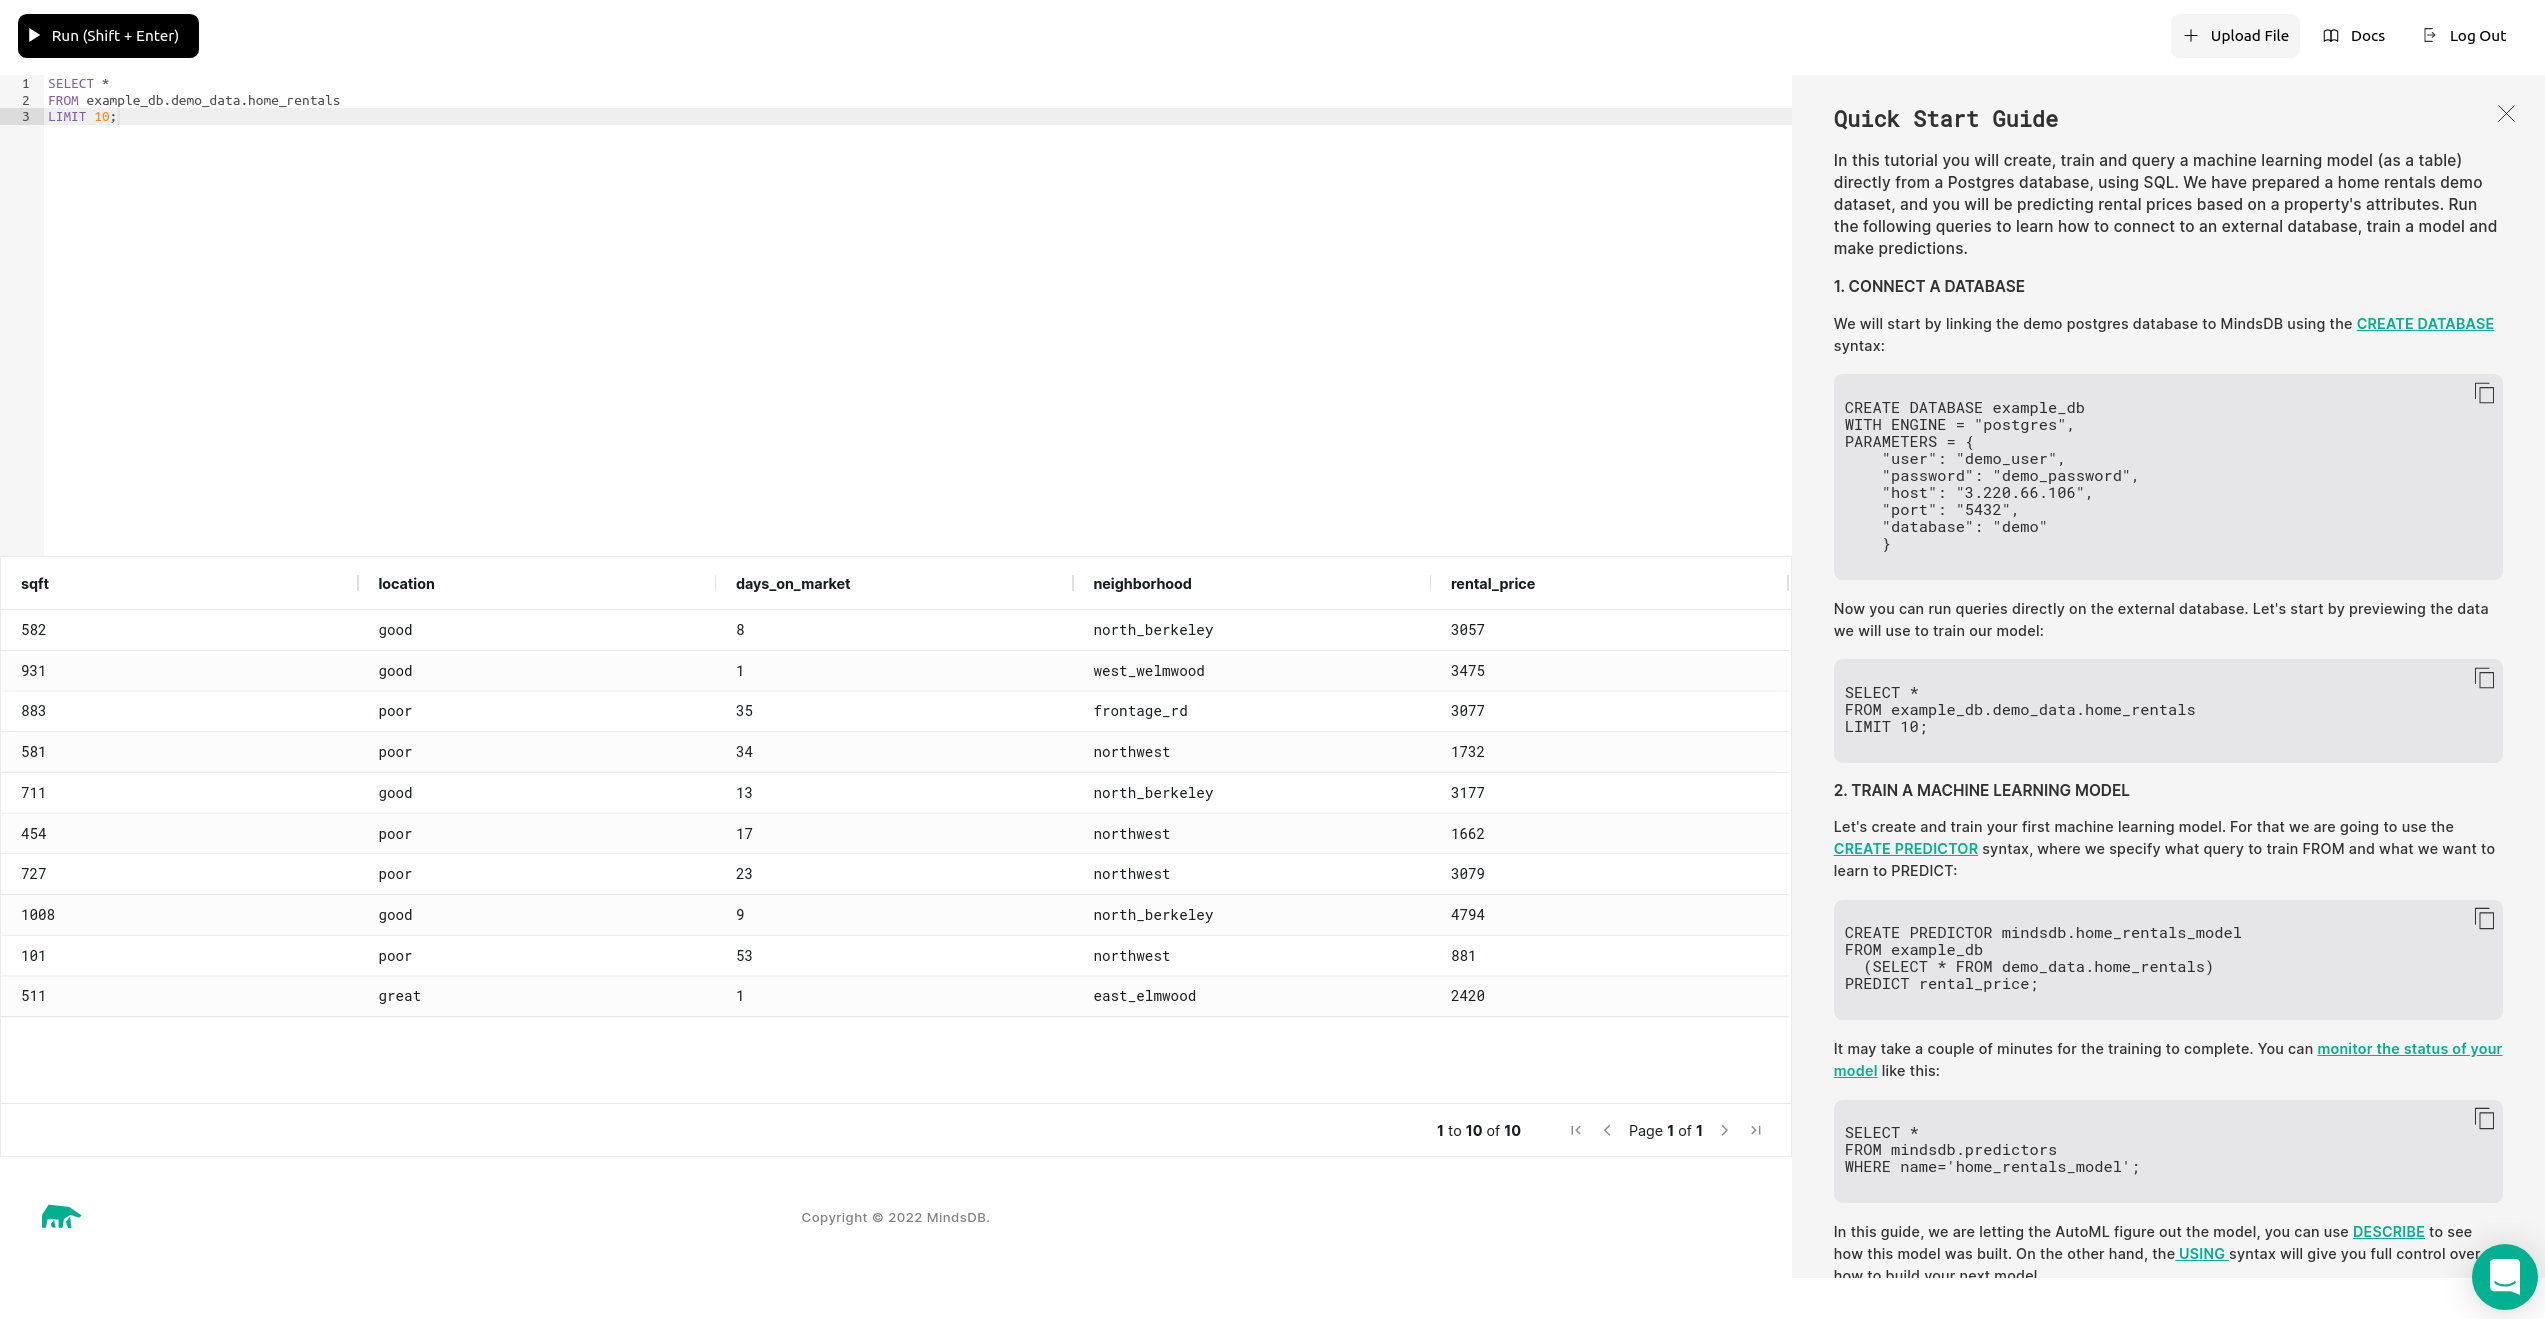
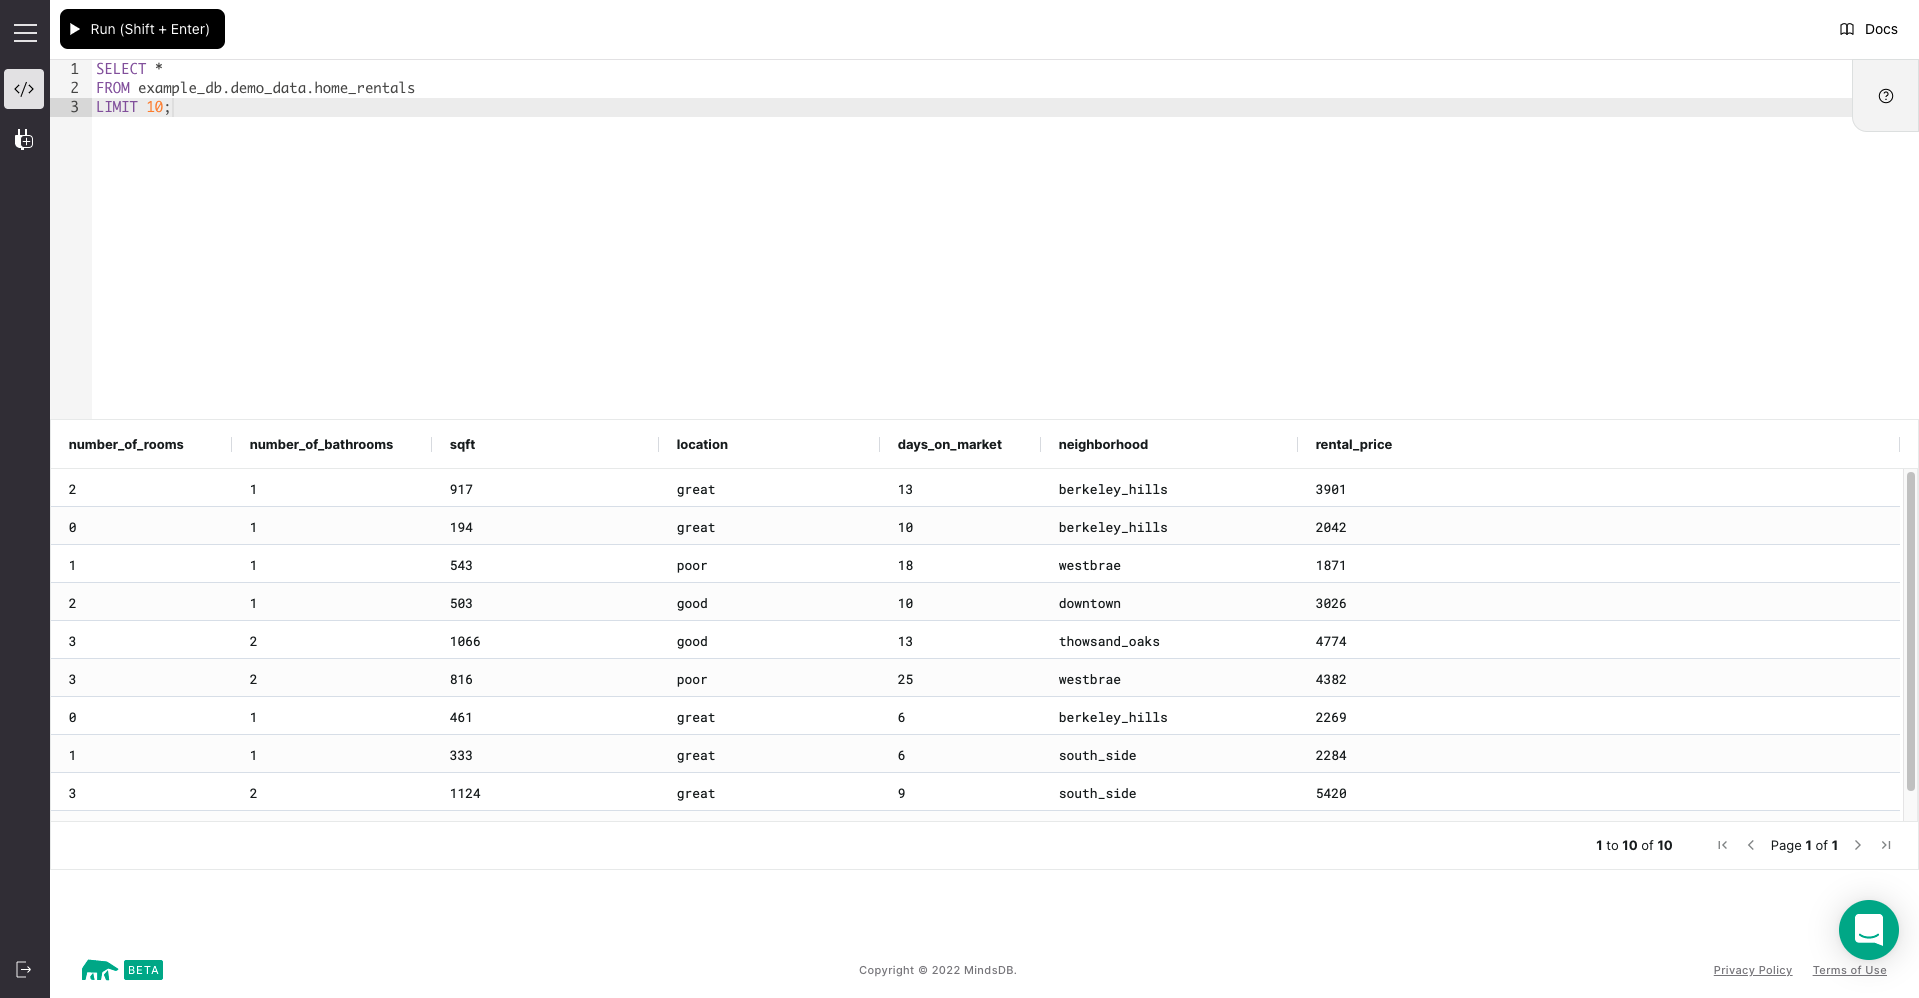
new changes to docs to match latest GUI

diff --git a/docs/mindsdb-docs/docs/deployment/cloud.md b/docs/mindsdb-docs/docs/deployment/cloud.md
@@ -2,18 +2,18 @@
 
 For a quick jumpstart into using MindsDB you can sign up for our Cloud. MindsDB Cloud is hosted by the MindsDB team and has all of the latest updates. You can start using it immediately for free by following these steps:
 
-1. Create an account by visiting the [cloud.mindsdb.com/register](https://cloud.mindsdb.com/register) and filling out the sign-up form.
+1. Create an account by visiting the [Sign Up page](https://cloud.mindsdb.com/register) and filling out the sign-up form.
 
     ![Sign up](/assets/cloud-signup-filledout.png)
 
-2. After sign up, you will get a confirmation email to validate your account.    
-
-    ![Validate](/assets/cloud/email.png)
-
-3. Once your account is validated, you can login to MindsDB Cloud.
+2. After, you can [login](https://cloud.mindsdb.com/login) to MindsDB Cloud.
 
     ![Login](/assets/cloud/login.png)
 
-4. Now, you are ready to use MindsDB Cloud.
+3. Now, you are ready to use MindsDB Cloud.
 
     ![GUI](/assets/cloud/gui.png)
+
+<!-- 2. After sign up, you will get a confirmation email to validate your account.    
+
+    ![Validate](/assets/cloud/email.png) -->

diff --git a/docs/mindsdb-docs/docs/sql/api/select_files.md b/docs/mindsdb-docs/docs/sql/api/select_files.md
@@ -9,8 +9,12 @@ This example will show how to upload a file to MindsDB Cloud and use it to creat
 ### Upload file to MindsDB Cloud
 
 1. Login to MindsDB Cloud.
-2. Navigate to the `Upload File` located on the right top corner.
-3. Click on `Upload a file` and choose your file.
+2. Navigate to  `Add Data ` located on the right navigation bar identified by a plug icon.
+3. Click on the tab `Files` and the card `Import File`
+
+![Add File](/assets/sql/add-file-data.png)
+
+
 5. Name your file in `Table name`.
 6. Click on `Save and Continue`.
 
